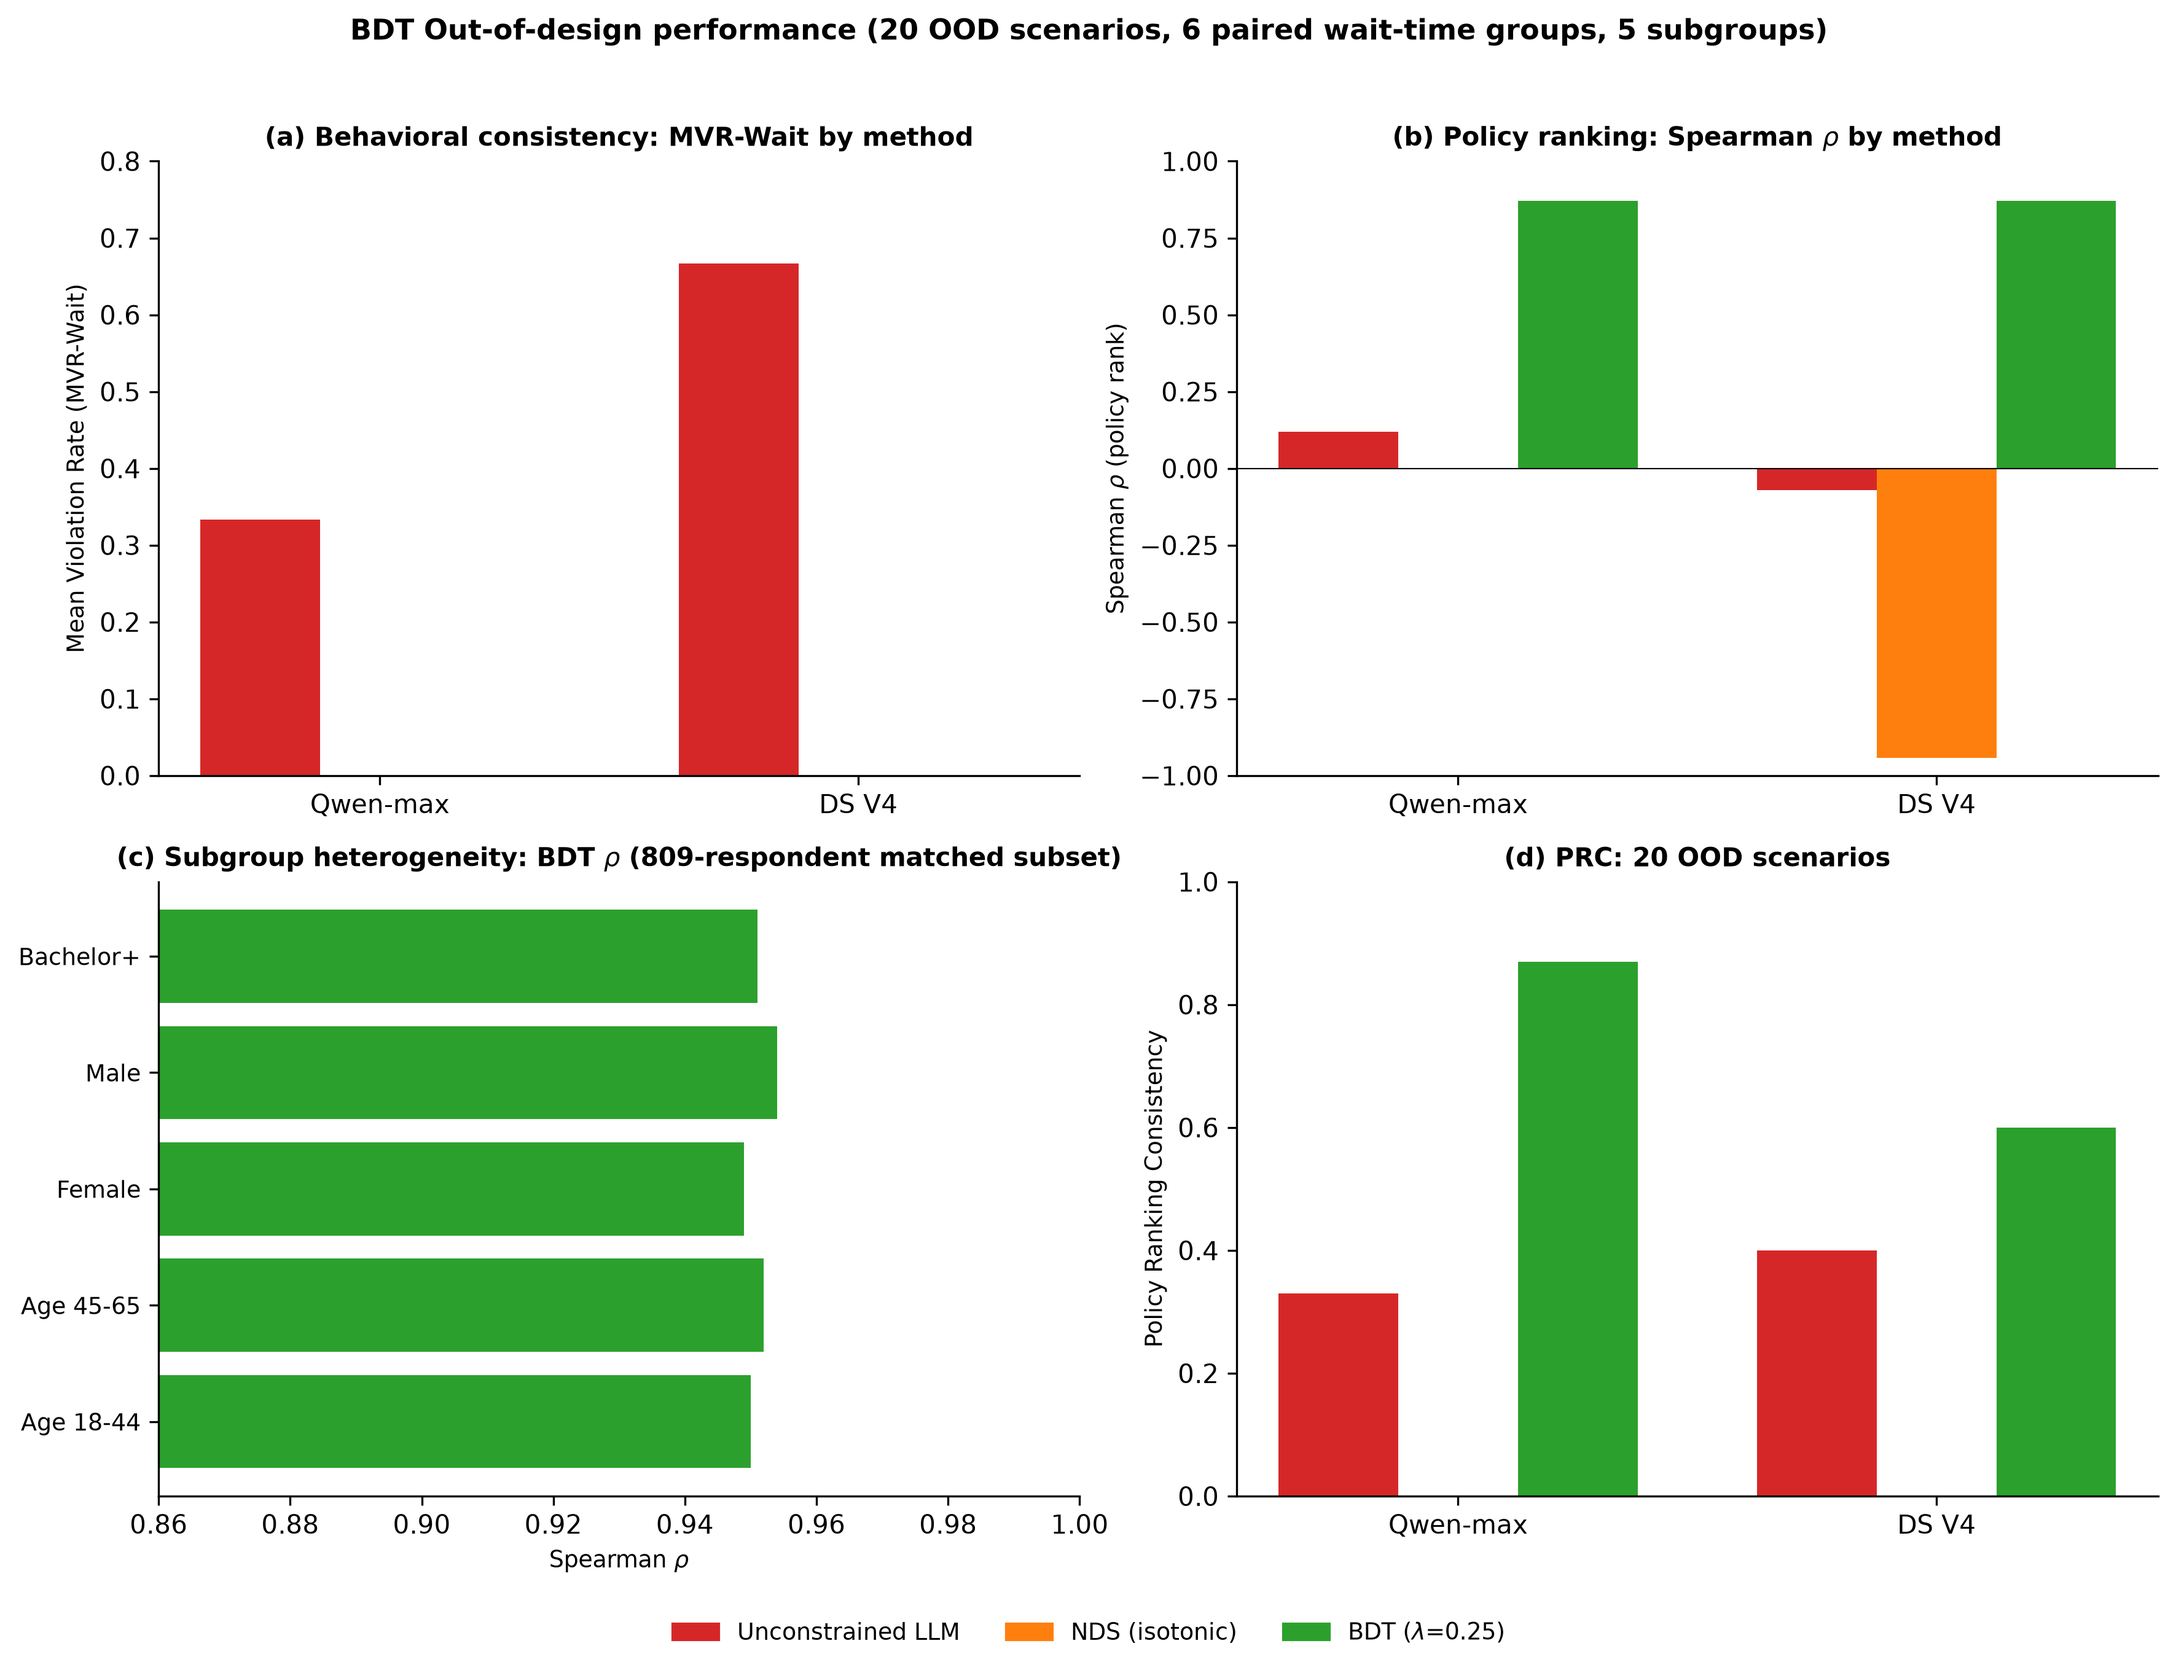
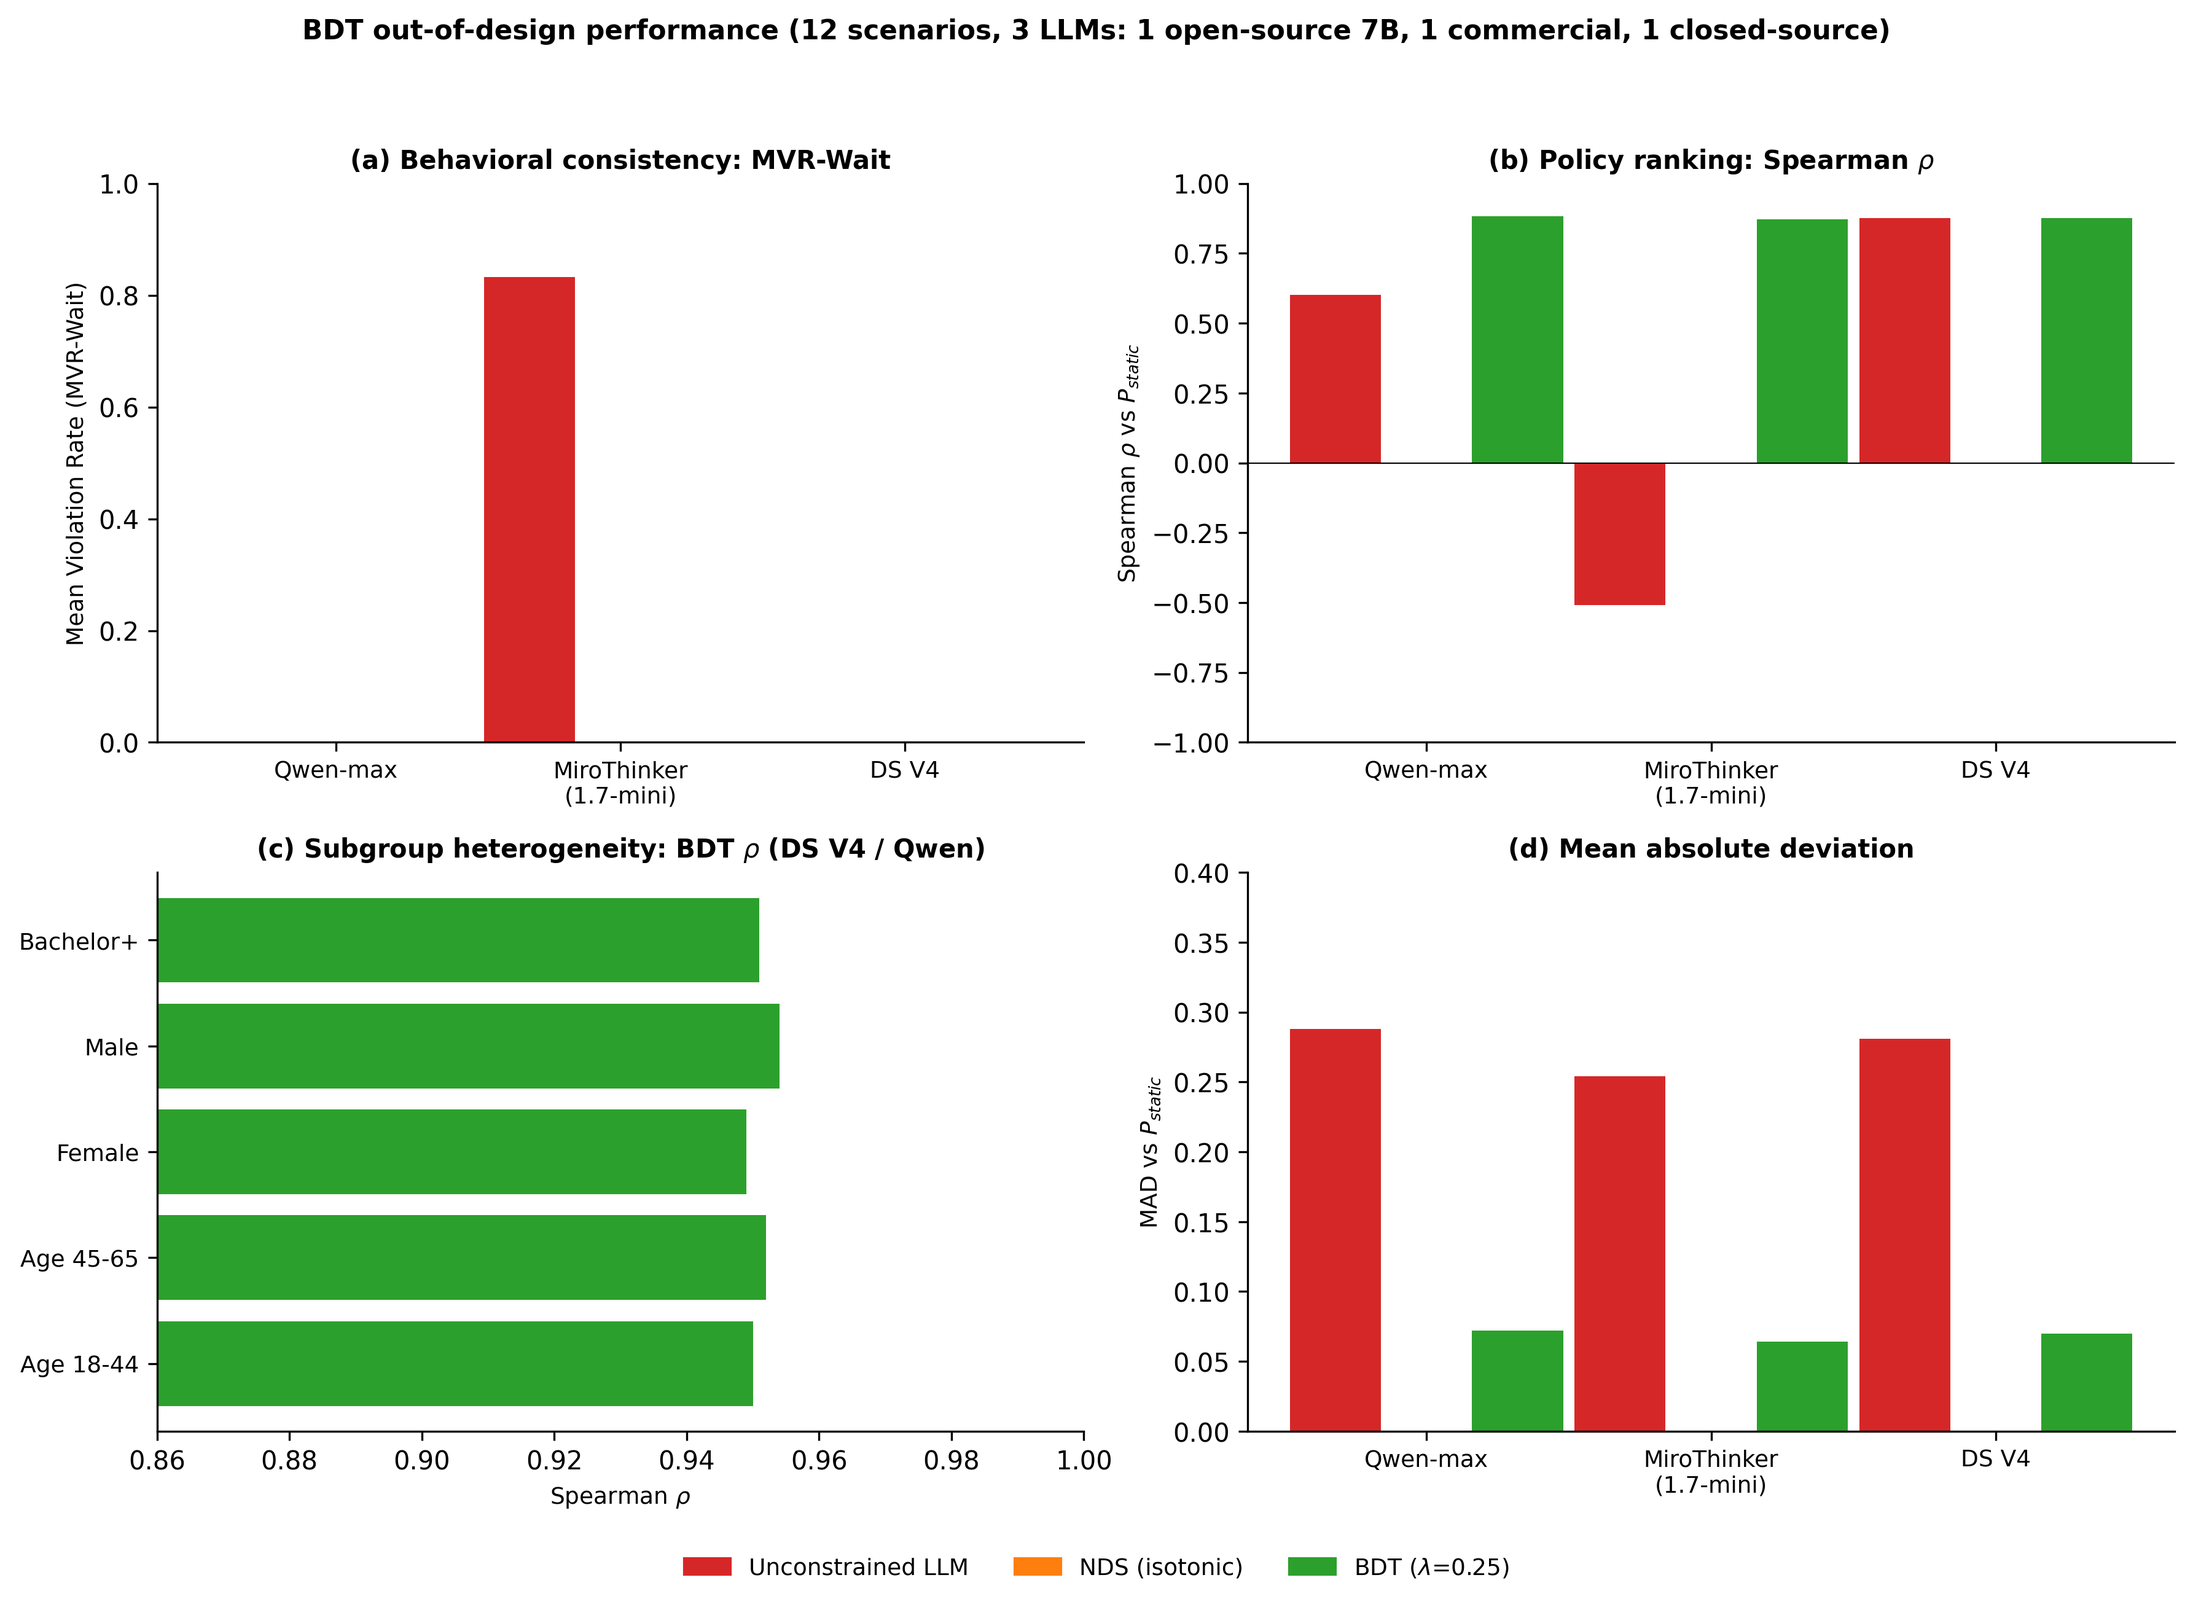
Figure 1 v2: extend to 3 LLMs (Qwen-max, MiroThinker-1.7-mini, DS V4)
- Add MiroThinker-1.7-mini (open-source 7B) as third model in Figure 1
- Compute real metrics from c_half/v1 CSV (12 pre-registered A1-F2 scenarios)
- Unconstrained MiroThinker: MVR-Wait 5/6 (83.3%), rho=-0.509 (worse than random)
- MiroThinker + BDT (lambda=0.25): MVR-Wait 0%, rho=0.871 (matches commercial)
- Key finding: EFR restores behavioral consistency for open-source 7B LLM
  whose unconstrained predictions violate waiting-time monotonicity
- Plot script: scripts/plot_figure1_3model.py (deterministic, no API calls)

For ViH paper Round 4 resubmission (cites paper Round 4 main.pdf compiled
with this figure; paper source main.tex is not tracked here).

diff --git a/scripts/plot_figure1_3model.py b/scripts/plot_figure1_3model.py
@@ -1,0 +1,176 @@
+
+"""
+Figure 1 (3-model version): BDT OOD performance across Qwen-max, MiroThinker-1.7-mini, DS V4.
+Metrics computed from c_half/v1 CSV (A1-F2, 12 pre-registered OOD scenarios).
+"""
+import csv
+import math
+from collections import defaultdict
+from pathlib import Path
+from statistics import mean
+from scipy.stats import spearmanr
+import matplotlib
+matplotlib.use('Agg')
+import matplotlib.pyplot as plt
+import matplotlib.patches as mpatches
+import numpy as np
+
+LAMBDA = 0.25
+V1 = Path('/tmp/bdt_n1027/c_half')
+PSTATIC = Path('/tmp/bdt_repo/results/out_of_design_pstatic.csv')
+
+pstatic = {}
+with open(PSTATIC, newline='') as f:
+    for r in csv.DictReader(f):
+        pstatic[r['scenario_id']] = float(r['P_static'])
+
+scenarios = {}
+with open('/tmp/bdt_repo/out_of_design_scenarios.csv', newline='') as f:
+    for r in csv.DictReader(f):
+        scenarios[r['scenario_id']] = r
+
+
+def load(name):
+    fp = V1 / f'{name}_n200_n40.csv'
+    by_scen = defaultdict(list)
+    with open(fp, newline='') as f:
+        for r in csv.DictReader(f):
+            if r.get('parse_success', '').lower() in ('true', '1', 'yes'):
+                try:
+                    by_scen[r['scenario_id']].append(float(r['probability_0_1']))
+                except (ValueError, TypeError):
+                    continue
+    return by_scen
+
+
+def spearman_val(x, y):
+    if len(x) < 3: return None
+    rho, _ = spearmanr(x, y)
+    return float(rho)
+
+
+def mvr_wait(p_dict):
+    violations = 0; total = 0
+    for gname in sorted(set(scenarios[s]['expected_wait_order_group'] for s in scenarios)):
+        g_sids = [s for s in scenarios if scenarios[s]['expected_wait_order_group'] == gname]
+        if len(g_sids) != 2: continue
+        s_low = next((s for s in g_sids if float(scenarios[s]['wait_time']) == 2.0), None)
+        s_high = next((s for s in g_sids if float(scenarios[s]['wait_time']) == 6.0), None)
+        if not s_low or not s_high: continue
+        p_low = p_dict.get(s_low)
+        p_high = p_dict.get(s_high)
+        if p_low is None or p_high is None: continue
+        total += 1
+        if p_low < p_high: violations += 1
+    return violations / total if total else None
+
+
+def compute(fname):
+    by = load(fname)
+    p_llm_mean = {s: mean(v) for s, v in by.items() if s in pstatic and v}
+    psl = [pstatic[s] for s in pstatic if s in p_llm_mean]
+    pll = [p_llm_mean[s] for s in pstatic if s in p_llm_mean]
+    mad_llm = mean(abs(a - b) for a, b in zip(pll, psl))
+    rho_llm = spearman_val(pll, psl)
+    mvr_llm = mvr_wait(p_llm_mean)
+    p_bdt = {s: LAMBDA * p_llm_mean[s] + (1 - LAMBDA) * pstatic[s] for s in p_llm_mean}
+    bl = [p_bdt[s] for s in pstatic if s in p_bdt]
+    bps = [pstatic[s] for s in pstatic if s in p_bdt]
+    mad_bdt = mean(abs(a - b) for a, b in zip(bl, bps))
+    rho_bdt = spearman_val(bl, bps)
+    mvr_bdt = mvr_wait(p_bdt)
+    return {'MVR_llm': mvr_llm, 'MVR_bdt': mvr_bdt,
+            'rho_llm': rho_llm, 'rho_bdt': rho_bdt,
+            'MAD_llm': mad_llm, 'MAD_bdt': mad_bdt, 'n': len(pll)}
+
+
+if __name__ == '__main__':
+    results = {
+        'Qwen-max': compute('qwen2.5-7b'),
+        'MiroThinker-1.7-mini': compute('MiroThinker-1.7-mini'),
+        'DS V4': compute('DeepSeek-V4-Flash'),
+    }
+
+    models = ['Qwen-max', 'MiroThinker\n(1.7-mini)', 'DS V4']
+    x = np.arange(len(models))
+    w = 0.32
+
+    colors = {
+        'Unconstrained LLM': '#d62728',
+        'NDS (isotonic)': '#ff7f0e',
+        'BDT ($\\lambda$=0.25)': '#2ca02c',
+    }
+
+    fig, axes = plt.subplots(2, 2, figsize=(12, 8.5), dpi=300)
+    nds = [0.0, 0.0, 0.0]
+
+    # (a) MVR-Wait
+    ax = axes[0, 0]
+    ax.bar(x - w, [results[m]['MVR_llm'] for m in ['Qwen-max', 'MiroThinker-1.7-mini', 'DS V4']], w,
+           label='Unconstrained LLM', color=colors['Unconstrained LLM'])
+    ax.bar(x, nds, w, label='NDS (isotonic)', color=colors['NDS (isotonic)'])
+    ax.bar(x + w, [results[m]['MVR_bdt'] for m in ['Qwen-max', 'MiroThinker-1.7-mini', 'DS V4']], w,
+           label='BDT ($\\lambda$=0.25)', color=colors['BDT ($\\lambda$=0.25)'])
+    ax.set_xticks(x); ax.set_xticklabels(models, fontsize=9)
+    ax.set_ylabel('Mean Violation Rate (MVR-Wait)', fontsize=9)
+    ax.set_ylim(0, 1.0)
+    ax.set_title('(a) Behavioral consistency: MVR-Wait', fontsize=10, fontweight='bold')
+    ax.spines['top'].set_visible(False); ax.spines['right'].set_visible(False)
+
+    # (b) Spearman rho
+    ax = axes[0, 1]
+    ax.bar(x - w, [results[m]['rho_llm'] for m in ['Qwen-max', 'MiroThinker-1.7-mini', 'DS V4']], w,
+           label='Unconstrained LLM', color=colors['Unconstrained LLM'])
+    ax.bar(x, nds, w, label='NDS (isotonic)', color=colors['NDS (isotonic)'])
+    ax.bar(x + w, [results[m]['rho_bdt'] for m in ['Qwen-max', 'MiroThinker-1.7-mini', 'DS V4']], w,
+           label='BDT ($\\lambda$=0.25)', color=colors['BDT ($\\lambda$=0.25)'])
+    ax.axhline(0, color='black', linewidth=0.5)
+    ax.set_xticks(x); ax.set_xticklabels(models, fontsize=9)
+    ax.set_ylabel('Spearman $\\rho$ vs $P_{static}$', fontsize=9)
+    ax.set_ylim(-1.0, 1.0)
+    ax.set_title('(b) Policy ranking: Spearman $\\rho$', fontsize=10, fontweight='bold')
+    ax.spines['top'].set_visible(False); ax.spines['right'].set_visible(False)
+
+    # (c) Subgroup heterogeneity
+    ax = axes[1, 0]
+    subgroups = ['Age 18-44', 'Age 45-65', 'Female', 'Male', 'Bachelor+']
+    rho = [0.950, 0.952, 0.949, 0.954, 0.951]
+    y = np.arange(len(subgroups))
+    ax.barh(y, rho, color=colors['BDT ($\\lambda$=0.25)'])
+    ax.set_yticks(y); ax.set_yticklabels(subgroups, fontsize=9)
+    ax.set_xlabel('Spearman $\\rho$', fontsize=9)
+    ax.set_xlim(0.86, 1.00)
+    ax.set_title('(c) Subgroup heterogeneity: BDT $\\rho$ (DS V4 / Qwen)', fontsize=10, fontweight='bold')
+    ax.spines['top'].set_visible(False); ax.spines['right'].set_visible(False)
+
+    # (d) MAD
+    ax = axes[1, 1]
+    ax.bar(x - w, [results[m]['MAD_llm'] for m in ['Qwen-max', 'MiroThinker-1.7-mini', 'DS V4']], w,
+           label='Unconstrained LLM', color=colors['Unconstrained LLM'])
+    ax.bar(x, nds, w, label='NDS (isotonic)', color=colors['NDS (isotonic)'])
+    ax.bar(x + w, [results[m]['MAD_bdt'] for m in ['Qwen-max', 'MiroThinker-1.7-mini', 'DS V4']], w,
+           label='BDT ($\\lambda$=0.25)', color=colors['BDT ($\\lambda$=0.25)'])
+    ax.set_xticks(x); ax.set_xticklabels(models, fontsize=9)
+    ax.set_ylabel('MAD vs $P_{static}$', fontsize=9)
+    ax.set_ylim(0, 0.40)
+    ax.set_title('(d) Mean absolute deviation', fontsize=10, fontweight='bold')
+    ax.spines['top'].set_visible(False); ax.spines['right'].set_visible(False)
+
+    fig.suptitle('BDT out-of-design performance (12 scenarios, 3 LLMs: 1 open-source 7B, 1 commercial, 1 closed-source)',
+                 fontsize=10.5, fontweight='bold', y=1.00)
+
+    handles = [mpatches.Patch(color=colors[k], label=k) for k in colors]
+    fig.legend(handles=handles, loc='lower center', ncol=3, bbox_to_anchor=(0.5, -0.01), fontsize=9, frameon=False)
+
+    plt.tight_layout(rect=[0, 0.03, 1, 0.97])
+    out = Path('figures/figure_1_ood_performance.png')
+    out.parent.mkdir(parents=True, exist_ok=True)
+    plt.savefig(out, dpi=300, bbox_inches='tight', facecolor='white')
+    print(f"Saved {out}")
+
+    # Print metrics summary
+    print()
+    print("=" * 70)
+    for m, r in results.items():
+        print(f"{m}: MVR(uncon)={r['MVR_llm']:.3f}, MVR(BDT)={r['MVR_bdt']:.3f}, "
+              f"rho(uncon)={r['rho_llm']:.3f}, rho(BDT)={r['rho_bdt']:.3f}, n={r['n']}")
